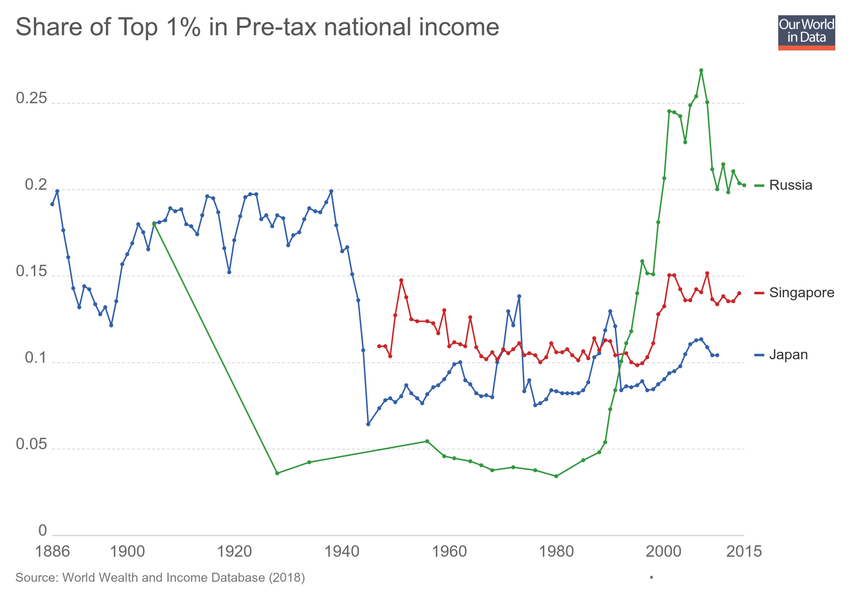
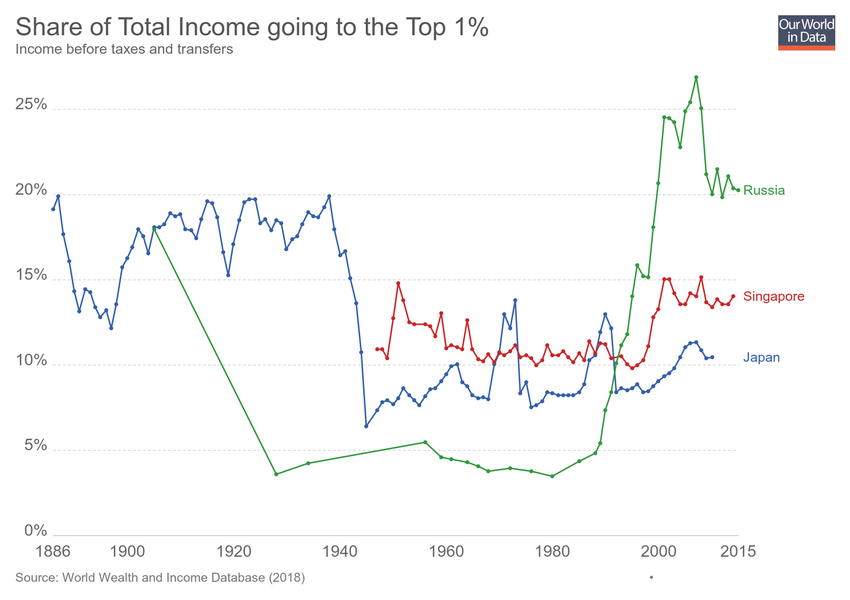
Updating chart share-of-top-1-in-pre-tax-national-income

diff --git a/grapher/share-of-top-1-in-pre-tax-national-income.html b/grapher/share-of-top-1-in-pre-tax-national-income.html
@@ -1,4 +1,4 @@
-<!doctype html><html><head><meta name="viewport" content="width=device-width, initial-scale=1" /><title>Share of Top 1% in Pre-tax national income - Our World in Data</title><meta name="description" content="An interactive visualization from Our World in Data." /><link rel="canonical" href="https://ourworldindata.org/grapher/share-of-top-1-in-pre-tax-national-income" /><meta property="fb:app_id" content="1149943818390250" /><meta property="og:url" content="https://ourworldindata.org/grapher/share-of-top-1-in-pre-tax-national-income" /><meta property="og:title" content="Share of Top 1% in Pre-tax national income" /><meta property="og:description" content="An interactive visualization from Our World in Data." /><meta property="og:image" content="https://ourworldindata.org/grapher/exports/share-of-top-1-in-pre-tax-national-income.png?v=1" /><meta property="og:image:width" content="850" /><meta property="og:image:height" content="600" /><meta property="og:site_name" content="Our World in Data" /><meta name="twitter:card" content="summary_large_image" /><meta name="twitter:site" content="@OurWorldInData" /><meta name="twitter:creator" content="@OurWorldInData" /><meta name="twitter:title" content="Share of Top 1% in Pre-tax national income" /><meta name="twitter:description" content="An interactive visualization from Our World in Data." /><meta name="twitter:image" content="https://ourworldindata.org/grapher/exports/share-of-top-1-in-pre-tax-national-income.png?v=1" /><style>
+<!doctype html><html><head><meta name="viewport" content="width=device-width, initial-scale=1" /><title>Share of Total Income going to the Top 1% - Our World in Data</title><meta name="description" content="Income before taxes and transfers" /><link rel="canonical" href="https://ourworldindata.org/grapher/share-of-top-1-in-pre-tax-national-income" /><meta property="fb:app_id" content="1149943818390250" /><meta property="og:url" content="https://ourworldindata.org/grapher/share-of-top-1-in-pre-tax-national-income" /><meta property="og:title" content="Share of Total Income going to the Top 1%" /><meta property="og:description" content="Income before taxes and transfers" /><meta property="og:image" content="https://ourworldindata.org/grapher/exports/share-of-top-1-in-pre-tax-national-income.png?v=2" /><meta property="og:image:width" content="850" /><meta property="og:image:height" content="600" /><meta property="og:site_name" content="Our World in Data" /><meta name="twitter:card" content="summary_large_image" /><meta name="twitter:site" content="@OurWorldInData" /><meta name="twitter:creator" content="@OurWorldInData" /><meta name="twitter:title" content="Share of Total Income going to the Top 1%" /><meta name="twitter:description" content="Income before taxes and transfers" /><meta name="twitter:image" content="https://ourworldindata.org/grapher/exports/share-of-top-1-in-pre-tax-national-income.png?v=2" /><style>
         html, body {
             height: 100%;
             margin: 0;
@@ -20,8 +20,8 @@
         }
     </style><noscript><style>
                     figure { display: none !important; }
-                </style></noscript><link rel="stylesheet" href="https://ourworldindata.org/grapher/assets/commons.bundle.dcbbe53805c487d5e57617b10ac73a8a.css" /><link rel="preload" href="/grapher/data/variables/85954.json?v=1" as="fetch" crossorigin /></head><body class="singleChart"><figure data-grapher-src="/grapher/share-of-top-1-in-pre-tax-national-income"></figure><noscript id="fallback"><img src="/grapher/exports/share-of-top-1-in-pre-tax-national-income.svg" /><p>Interactive visualization requires JavaScript</p></noscript><script src="https://cdn.polyfill.io/v2/polyfill.min.js?features=es6,fetch"></script><script src="https://ourworldindata.org/grapher/assets/commons.bundle.ec195eba909527e01aa5.js"></script><script src="https://ourworldindata.org/grapher/assets/charts.bundle.ec195eba909527e01aa5.js"></script><script>
-        var jsonConfig = {"map":{"projection":"World","colorSchemeLabels":[],"colorSchemeValues":[],"defaultProjection":"World","colorSchemeMinValue":0,"customNumericColors":[],"customCategoryColors":{},"customCategoryLabels":{},"customHiddenCategories":{}},"tab":"chart","slug":"share-of-top-1-in-pre-tax-national-income","type":"LineChart","title":"Share of Top 1% in Pre-tax national income","xAxis":{"scaleType":"linear"},"yAxis":{"min":0,"scaleType":"linear"},"version":1,"hasMapTab":false,"stackMode":"absolute","dimensions":[{"display":{},"property":"y","variableId":85954}],"isAutoSlug":true,"hasChartTab":true,"isAutoTitle":true,"isPublished":true,"selectedData":[{"index":0,"entityId":14},{"index":0,"entityId":86},{"index":0,"entityId":12}],"addCountryMode":"add-country","id":2350};
+                </style></noscript><link rel="stylesheet" href="https://ourworldindata.org/grapher/assets/commons.bundle.dcbbe53805c487d5e57617b10ac73a8a.css" /><link rel="preload" href="/grapher/data/variables/85954.json?v=2" as="fetch" crossorigin /></head><body class="singleChart"><figure data-grapher-src="/grapher/share-of-top-1-in-pre-tax-national-income"></figure><noscript id="fallback"><img src="/grapher/exports/share-of-top-1-in-pre-tax-national-income.svg" /><p>Interactive visualization requires JavaScript</p></noscript><script src="https://cdn.polyfill.io/v2/polyfill.min.js?features=es6,fetch"></script><script src="https://ourworldindata.org/grapher/assets/commons.bundle.ec195eba909527e01aa5.js"></script><script src="https://ourworldindata.org/grapher/assets/charts.bundle.ec195eba909527e01aa5.js"></script><script>
+        var jsonConfig = {"id":2350,"map":{"projection":"World","colorSchemeLabels":[],"colorSchemeValues":[],"colorSchemeMinValue":0,"customNumericColors":[],"customCategoryColors":{},"customCategoryLabels":{},"customHiddenCategories":{}},"tab":"chart","slug":"share-of-top-1-in-pre-tax-national-income","type":"LineChart","title":"Share of Total Income going to the Top 1%","xAxis":{"scaleType":"linear"},"yAxis":{"min":0,"scaleType":"linear"},"version":2,"subtitle":"Income before taxes and transfers","hasMapTab":false,"stackMode":"absolute","dimensions":[{"display":{"unit":"%","conversionFactor":100},"property":"y","variableId":85954}],"hasChartTab":true,"isPublished":true,"selectedData":[{"index":0,"entityId":14},{"index":0,"entityId":86},{"index":0,"entityId":12}],"addCountryMode":"add-country"};
         var figure = document.getElementsByTagName("figure")[0];
         try {
             window.App = {};
